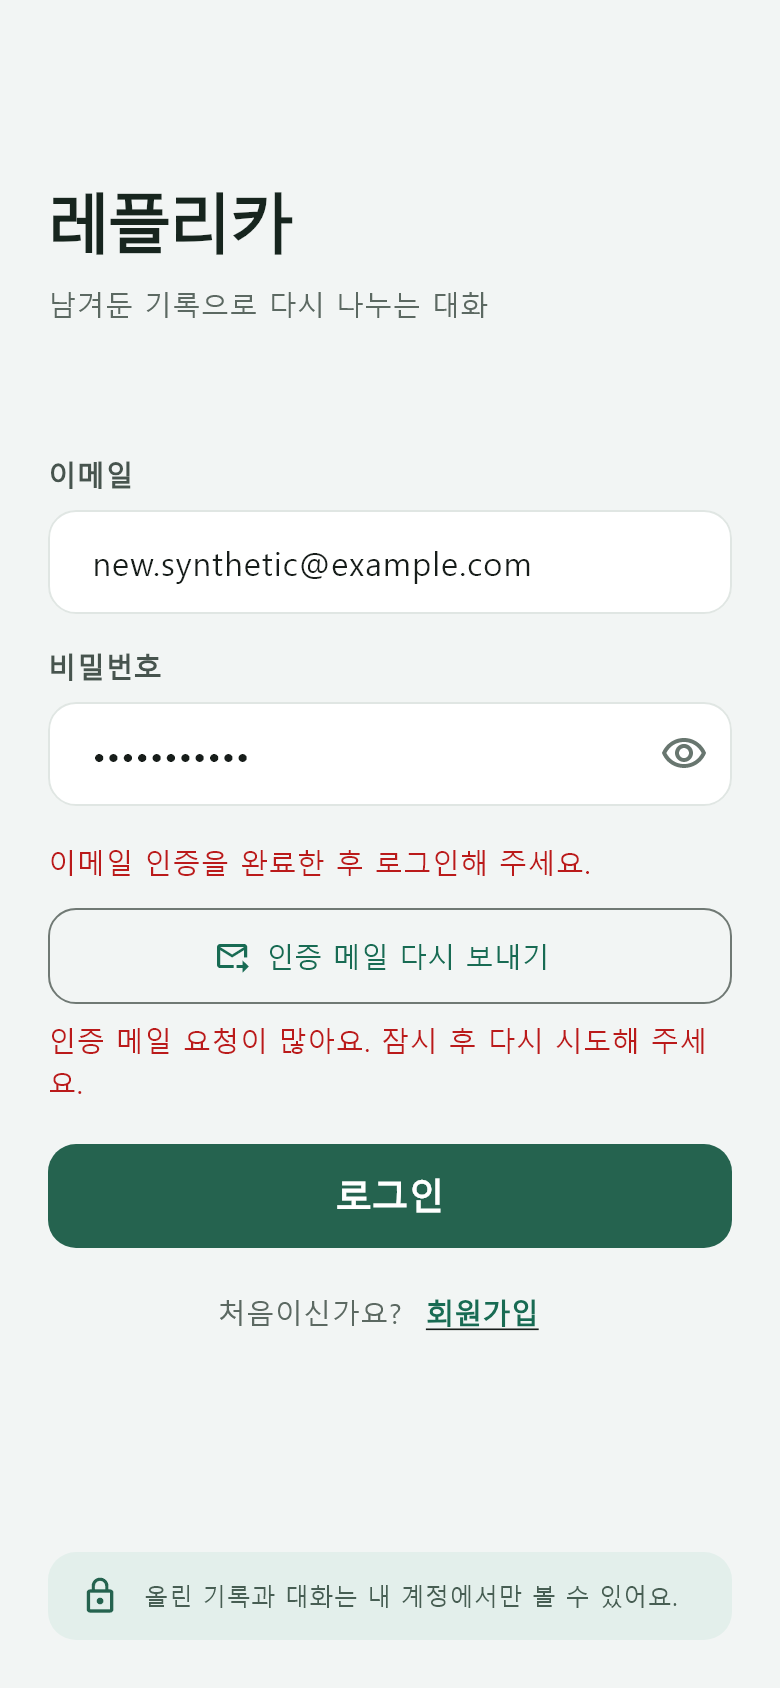
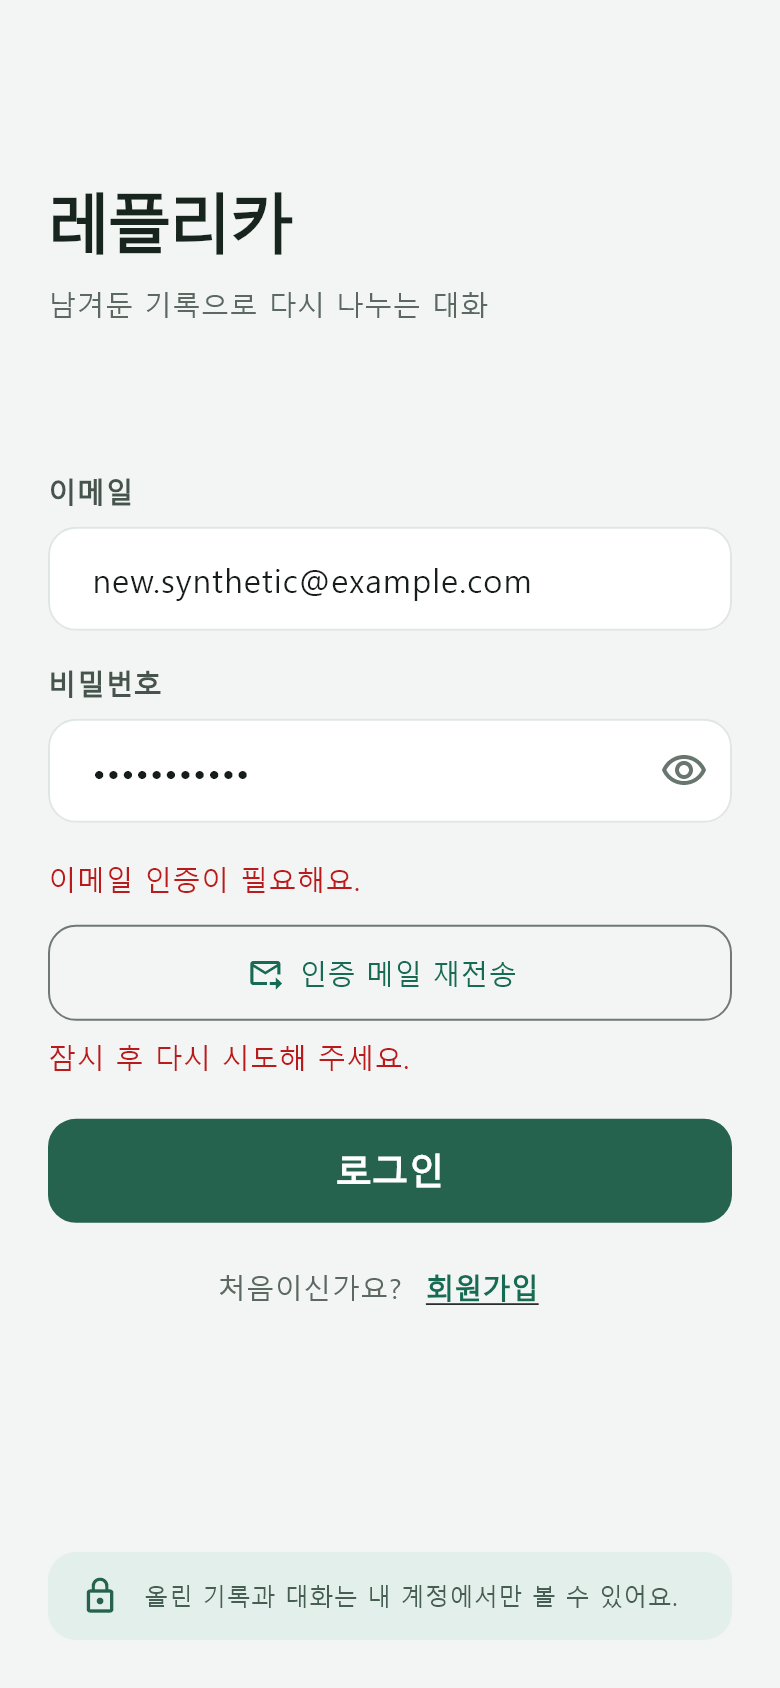
feat(mobile): shorten the email confirmation messages (#125)
Shorten the unconfirmed sign-in error, the resend button and its
outcome messages, and the notice shown after a signup that needs
email confirmation. Update the tests, auth docs and resend captures
to match.

diff --git a/mobile/lib/auth/auth_screen.dart b/mobile/lib/auth/auth_screen.dart
@@ -75,16 +75,16 @@ class _AuthScreenState extends State<AuthScreen> {
       await widget.service.resendSignUpConfirmation(email);
       failed = false;
       result = widget.service.isPreview
-          ? '인증 메일 재전송 화면 확인을 마쳤어요. 미리보기에서는 실제 메일을 보내지 않아요.'
-          : '인증 메일을 다시 요청했어요. 메일함과 스팸메일함을 확인한 후 로그인해 주세요.';
+          ? '미리보기라 메일은 보내지 않아요.'
+          : '인증 메일을 다시 요청했어요.';
     } on AuthFailure catch (error) {
       result = switch (error.kind) {
-        AuthFailureKind.rateLimited => '인증 메일 요청이 많아요. 잠시 후 다시 시도해 주세요.',
+        AuthFailureKind.rateLimited => '잠시 후 다시 시도해 주세요.',
         AuthFailureKind.network => '네트워크 연결을 확인하고 다시 시도해 주세요.',
-        _ => '인증 메일을 다시 보내지 못했어요. 다시 시도해 주세요.',
+        _ => '요청하지 못했어요. 다시 시도해 주세요.',
       };
     } catch (_) {
-      result = '인증 메일을 다시 보내지 못했어요. 다시 시도해 주세요.';
+      result = '요청하지 못했어요. 다시 시도해 주세요.';
     }
     if (!mounted) return;
     setState(() {
@@ -131,7 +131,7 @@ class _AuthScreenState extends State<AuthScreen> {
             _obscure = true;
             _message = switch (result) {
               SignUpResult.emailVerificationRequired =>
-                '회원가입 요청을 받았어요. 이메일의 인증 링크를 확인한 후 로그인해 주세요.',
+                '이메일의 인증 링크를 확인한 후 로그인해 주세요.',
               SignUpResult.loginRequired =>
                 widget.service.isPreview
                     ? '회원가입 화면 확인을 마쳤어요. 실제 계정 생성 없이 미리보기 계정으로 로그인해 주세요.'
@@ -163,7 +163,7 @@ class _AuthScreenState extends State<AuthScreen> {
           setState(() => _error = '이메일 또는 비밀번호가 맞지 않아요');
         case AuthFailureKind.emailNotVerified:
           setState(() {
-            _error = '이메일 인증을 완료한 후 로그인해 주세요.';
+            _error = '이메일 인증이 필요해요.';
             // Only a refused sign-in names an unconfirmed address.
             if (!_signUp) _resendEmail = email;
           });
@@ -461,9 +461,7 @@ class _AuthScreenState extends State<AuthScreen> {
                                     : const Icon(
                                         Icons.forward_to_inbox_outlined,
                                       ),
-                                label: Text(
-                                  _resending ? '인증 메일 요청 중…' : '인증 메일 다시 보내기',
-                                ),
+                                label: Text(_resending ? '요청 중…' : '인증 메일 재전송'),
                               ),
                               if (_resendResult case final String result) ...[
                                 const SizedBox(height: 8),

diff --git a/mobile/test/auth_resend_test.dart b/mobile/test/auth_resend_test.dart
@@ -14,10 +14,10 @@ import 'package:supabase_flutter/supabase_flutter.dart';
 const email = 'new.synthetic@example.com';
 const resendKey = ValueKey('auth-resend');
 const resultKey = ValueKey('auth-resend-result');
-const sentText = '인증 메일을 다시 요청했어요. 메일함과 스팸메일함을 확인한 후 로그인해 주세요.';
-const rateLimitedText = '인증 메일 요청이 많아요. 잠시 후 다시 시도해 주세요.';
+const sentText = '인증 메일을 다시 요청했어요.';
+const rateLimitedText = '잠시 후 다시 시도해 주세요.';
 const networkText = '네트워크 연결을 확인하고 다시 시도해 주세요.';
-const failedText = '인증 메일을 다시 보내지 못했어요. 다시 시도해 주세요.';
+const failedText = '요청하지 못했어요. 다시 시도해 주세요.';
 
 /// Records each resend address and lets the test answer it.
 class ResendAuth extends PreviewAuthService {
@@ -120,14 +120,14 @@ void main() {
       await tester.pumpWidget(ReplicaApp(authService: auth));
       await signUp(tester, address: '  $email ');
       expect(find.textContaining('이메일의 인증 링크'), findsOneWidget);
-      expect(find.text('인증 메일 다시 보내기'), findsOneWidget);
+      expect(find.text('인증 메일 재전송'), findsOneWidget);
 
       await tapResend(tester);
       expect(auth.requests, [email]);
       expect(onPressed(tester, resendKey), isNull);
       expect(onPressed(tester, const ValueKey('auth-submit')), isNull);
       expect(onPressed(tester, const ValueKey('auth-switch')), isNull);
-      expect(find.text('인증 메일 요청 중…'), findsOneWidget);
+      expect(find.text('요청 중…'), findsOneWidget);
       await tester.tap(find.byKey(resendKey), warnIfMissed: false);
       await tester.pump();
       expect(auth.requests, hasLength(1));
@@ -147,7 +147,7 @@ void main() {
       addTearDown(auth.dispose);
       await tester.pumpWidget(ReplicaApp(authService: auth));
       await signIn(tester);
-      expect(find.text('이메일 인증을 완료한 후 로그인해 주세요.'), findsOneWidget);
+      expect(find.text('이메일 인증이 필요해요.'), findsOneWidget);
 
       for (final (failure, message) in [
         (
@@ -316,7 +316,7 @@ void main() {
     await signIn(tester);
     await tapResend(tester);
     await tester.pumpAndSettle();
-    expect(resultText(tester), contains('실제 메일을 보내지 않아요'));
+    expect(resultText(tester), contains('메일은 보내지 않아요'));
   });
 
   testWidgets('preview resend failure keeps the button for another try', (

diff --git a/mobile/test/auth_resend_capture_test.dart b/mobile/test/auth_resend_capture_test.dart
@@ -85,14 +85,14 @@ void main() {
     addTearDown(auth.dispose);
     await show(tester, auth);
     await signIn(tester);
-    expect(find.text('이메일 인증을 완료한 후 로그인해 주세요.'), findsOneWidget);
+    expect(find.text('이메일 인증이 필요해요.'), findsOneWidget);
     await save(tester, 'login-unverified');
 
     await tester.tap(find.byKey(resendKey));
     // The progress indicator never settles while the request is held.
     await tester.pump();
     await tester.pump(const Duration(milliseconds: 300));
-    expect(find.text('인증 메일 요청 중…'), findsOneWidget);
+    expect(find.text('요청 중…'), findsOneWidget);
     await save(tester, 'resend-pending');
 
     auth.pending.last.complete();

diff --git a/mobile/test/auth_contract_test.dart b/mobile/test/auth_contract_test.dart
@@ -257,7 +257,7 @@ void main() {
   }
 
   for (final entry in {
-    AuthFailureKind.emailNotVerified: '이메일 인증을 완료한 후 로그인해 주세요.',
+    AuthFailureKind.emailNotVerified: '이메일 인증이 필요해요.',
     AuthFailureKind.rateLimited: '요청이 많아요. 잠시 후 다시 시도해 주세요.',
     AuthFailureKind.weakPassword: '비밀번호가 보안 정책을 충족하지 않습니다.',
   }.entries) {

diff --git a/mobile/AUTH_CONTRACT.md b/mobile/AUTH_CONTRACT.md
@@ -30,8 +30,8 @@
 | 로그인이 `emailNotVerified`로 거절됨 | 로그인 요청에 보낸 이메일(앞뒤 공백 제거) |
 
 - 재전송 대상은 위 요청 때 정해지며 이메일 입력칸의 이후 값을 보내지 않습니다. 입력칸을 다른 주소로 바꾸거나, 로그인·회원가입을 전환하거나, 새로 로그인·가입을 요청하면 버튼과 결과 안내가 사라집니다.
-- 요청 중에는 재전송 버튼을 비활성화하고(‘인증 메일 요청 중…’), 입력칸·로그인·회원가입 전환도 막아 요청이 겹치지 않게 합니다. 로그인·가입을 새로 요청하면 그 순간 버튼이 사라지므로, 로그인·가입 요청과 재전송이 함께 진행되지 않습니다.
-- 결과는 버튼 아래에 표시합니다. 성공: ‘인증 메일을 다시 요청했어요. 메일함과 스팸메일함을 확인한 후 로그인해 주세요.’ 요청 제한: ‘인증 메일 요청이 많아요. 잠시 후 다시 시도해 주세요.’ 연결 실패: ‘네트워크 연결을 확인하고 다시 시도해 주세요.’ 그 밖의 실패: ‘인증 메일을 다시 보내지 못했어요. 다시 시도해 주세요.’ 실패 뒤에도 버튼을 다시 누를 수 있습니다. 서버 오류 원문은 표시하지 않습니다.
+- 요청 중에는 재전송 버튼을 비활성화하고(‘요청 중…’), 입력칸·로그인·회원가입 전환도 막아 요청이 겹치지 않게 합니다. 로그인·가입을 새로 요청하면 그 순간 버튼이 사라지므로, 로그인·가입 요청과 재전송이 함께 진행되지 않습니다.
+- 결과는 버튼 아래에 표시합니다. 성공: ‘인증 메일을 다시 요청했어요.’ 요청 제한: ‘잠시 후 다시 시도해 주세요.’ 연결 실패: ‘네트워크 연결을 확인하고 다시 시도해 주세요.’ 그 밖의 실패: ‘요청하지 못했어요. 다시 시도해 주세요.’ 실패 뒤에도 버튼을 다시 누를 수 있습니다. 서버 오류 원문은 표시하지 않습니다.
 - Supabase는 이메일 존재 여부를 드러내지 않으려고 없는 주소나 이미 인증한 주소에도 성공으로 답할 수 있습니다. 그래서 성공 안내는 ‘보냈어요’가 아니라 ‘요청했어요’로 표현합니다.
 - 앱은 재전송 간격(쿨다운)을 따로 두지 않고 서버의 요청 제한 응답을 따릅니다. Supabase의 기본 이메일 발송 제한·간격은 프로젝트 설정에 따르며 실제 값은 확인하지 않았습니다.
 

diff --git a/mobile/AUTH_VALIDATION.md b/mobile/AUTH_VALIDATION.md
@@ -2,11 +2,12 @@
 
 ## 2026-11-26 인증 메일 재전송 (#125)
 
-- 가입 후 이메일 인증 안내와 미인증 로그인 오류에 ‘인증 메일 다시 보내기’를 추가했습니다. 규칙은 [AUTH_CONTRACT.md](AUTH_CONTRACT.md#인증-메일-재전송-125)를 참고하세요.
+- 가입 후 이메일 인증 안내와 미인증 로그인 오류에 ‘인증 메일 재전송’을 추가했습니다. 규칙은 [AUTH_CONTRACT.md](AUTH_CONTRACT.md#인증-메일-재전송-125)를 참고하세요.
 - `test/auth_resend_test.dart` 16개: 두 진입점, 대상 이메일(공백 제거·이후 입력값 무시·가장 최근에 거절된 로그인 주소), 요청 중 버튼·입력·전환 비활성과 중복 요청 차단, 새 로그인 요청 중 버튼 제거, 성공·요청 제한·연결 실패·그 밖의 실패 안내와 재요청, 다른 주소 입력·모드 전환 시 버튼 제거, 다른 로그인 실패에는 버튼 없음, 320×568·글자 1.8배 배치, 더미 안내, SDK 요청(`POST /auth/v1/resend`, `type: signup`, `redirect_to`)과 오류 코드·429·5xx·연결 실패 변환.
 - 기준 `main`(`7c0c123`)에 이 변경을 더한 상태에서 전체 Flutter 테스트 **452개** 통과, `flutter analyze --no-pub` No issues found, 변경한 파일의 `dart format` 통과.
 - 위젯 렌더링 캡처 5장을 `docs/screenshots/issue125/`에 추가했습니다(`test/auth_resend_capture_test.dart`, [캡처 안내](docs/screenshots/issue125/README.md)). 이 파일의 2개 테스트는 일반 실행에서도 같은 흐름을 검사하고, 캡처 모드에서만 이미지를 씁니다.
 - 실제 Supabase 프로젝트의 재전송 메일 수신, 이메일 발송 제한 값, 실기기 화면은 미검증입니다.
+- 2026-11-27: 미인증 로그인 오류·재전송 버튼·결과 안내 문구와 가입 후 이메일 인증 안내를 줄였습니다(규칙은 [AUTH_CONTRACT.md](AUTH_CONTRACT.md#인증-메일-재전송-125)). 전체 Flutter 테스트 **452개** 통과, `flutter analyze --no-pub` No issues found, 캡처 5장을 다시 만들었습니다.
 
 ## 2026-10-28 PR #62 수정 요청 반영
 

diff --git a/mobile/SC01.md b/mobile/SC01.md
@@ -14,7 +14,7 @@
 - 로그인 실패는 입력을 유지하고 버튼 위에 ‘이메일 또는 비밀번호가 맞지 않아요’ 표시.
 - 네트워크 실패 상태는 하단 SnackBar와 ‘다시 시도’ 버튼 표시. 실제 네트워크 요청 없이 주입한 더미 오류로 검증.
 - 이미 가입된 이메일 상태는 이메일 입력 아래 안내하고 ‘로그인으로 전환’ 링크 제공. 더미의 합성 시험 계정으로 재현.
-- 가입 후 이메일 인증 안내와 미인증 계정의 로그인 오류 아래에 ‘인증 메일 다시 보내기’ 버튼(#125). 요청 중 비활성, 성공·요청 제한·실패 안내를 버튼 아래 표시하고 실패하면 다시 요청 가능. 대상 이메일과 표시 규칙은 [AUTH_CONTRACT.md](AUTH_CONTRACT.md#인증-메일-재전송-125), 위젯 렌더링 캡처는 [docs/screenshots/issue125](docs/screenshots/issue125/README.md).
+- 가입 후 이메일 인증 안내와 미인증 계정의 로그인 오류 아래에 ‘인증 메일 재전송’ 버튼(#125). 요청 중 비활성, 성공·요청 제한·실패 안내를 버튼 아래 표시하고 실패하면 다시 요청 가능. 대상 이메일과 표시 규칙은 [AUTH_CONTRACT.md](AUTH_CONTRACT.md#인증-메일-재전송-125), 위젯 렌더링 캡처는 [docs/screenshots/issue125](docs/screenshots/issue125/README.md).
 - 하단 잠금 아이콘과 ‘올린 기록과 대화는 내 계정에서만 볼 수 있어요.’ 안내.
 - 작은 화면·키보드·큰 글자에서는 화면을 스크롤해 입력과 버튼에 접근.
 
